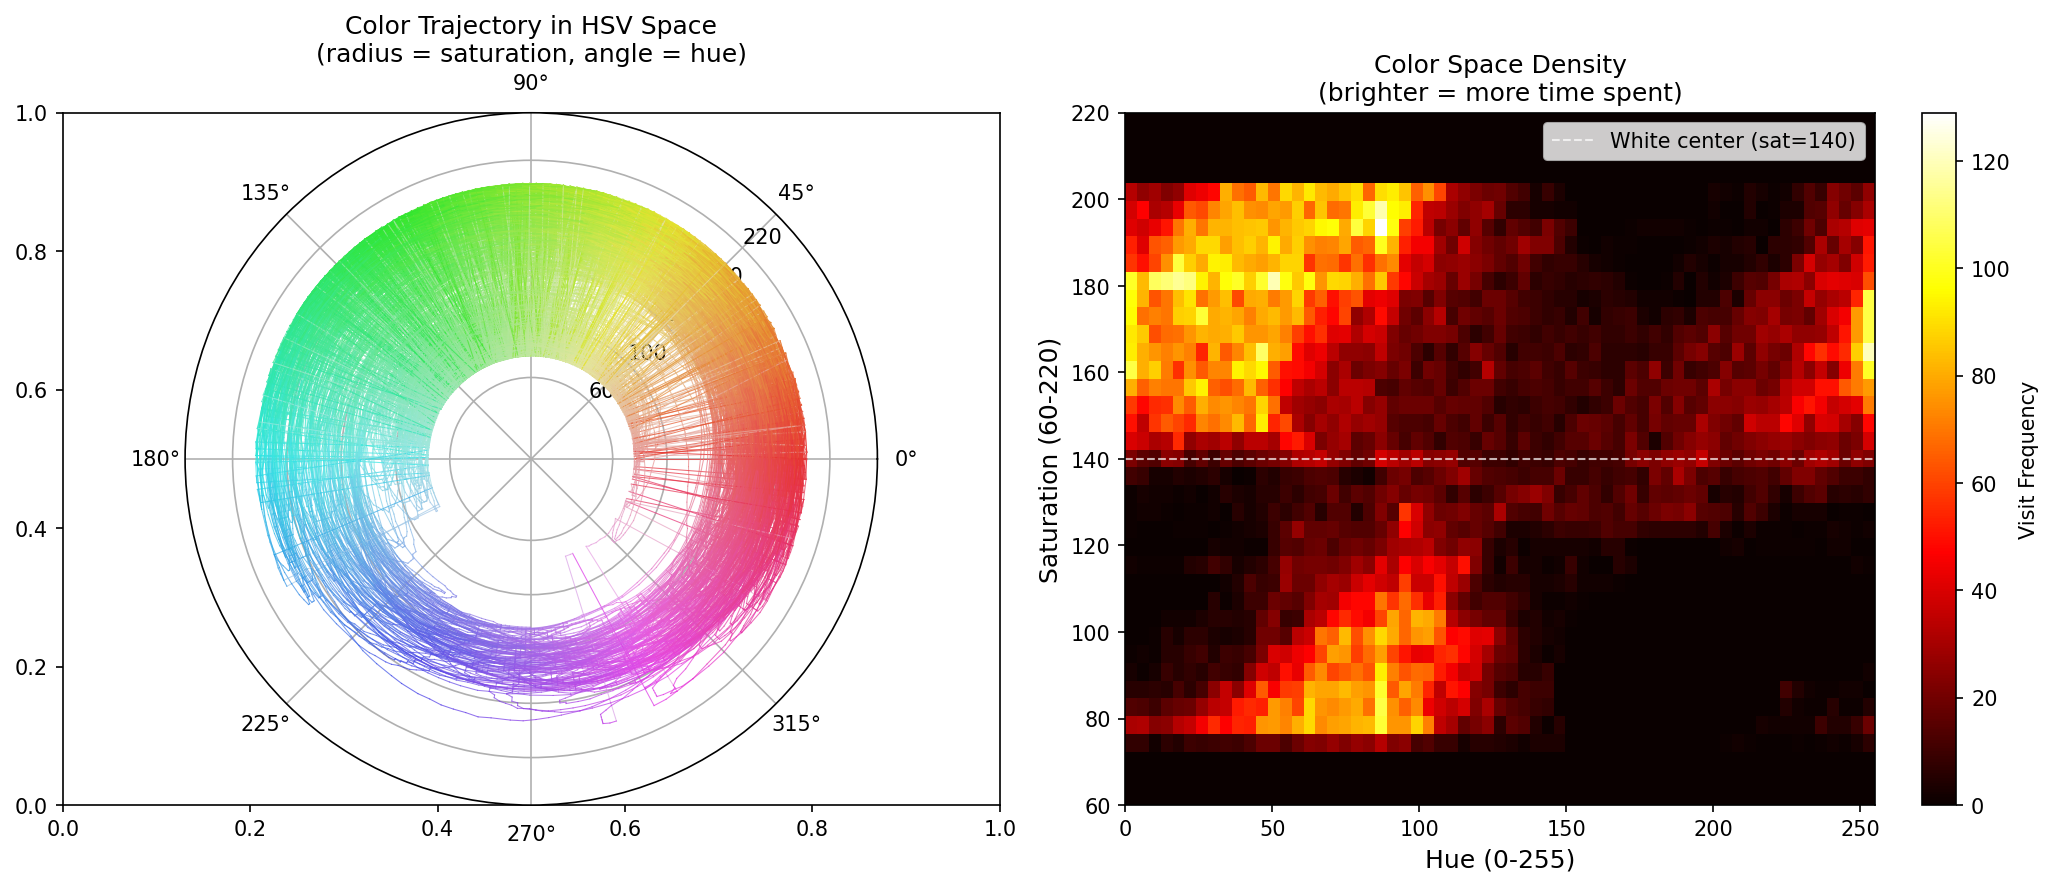
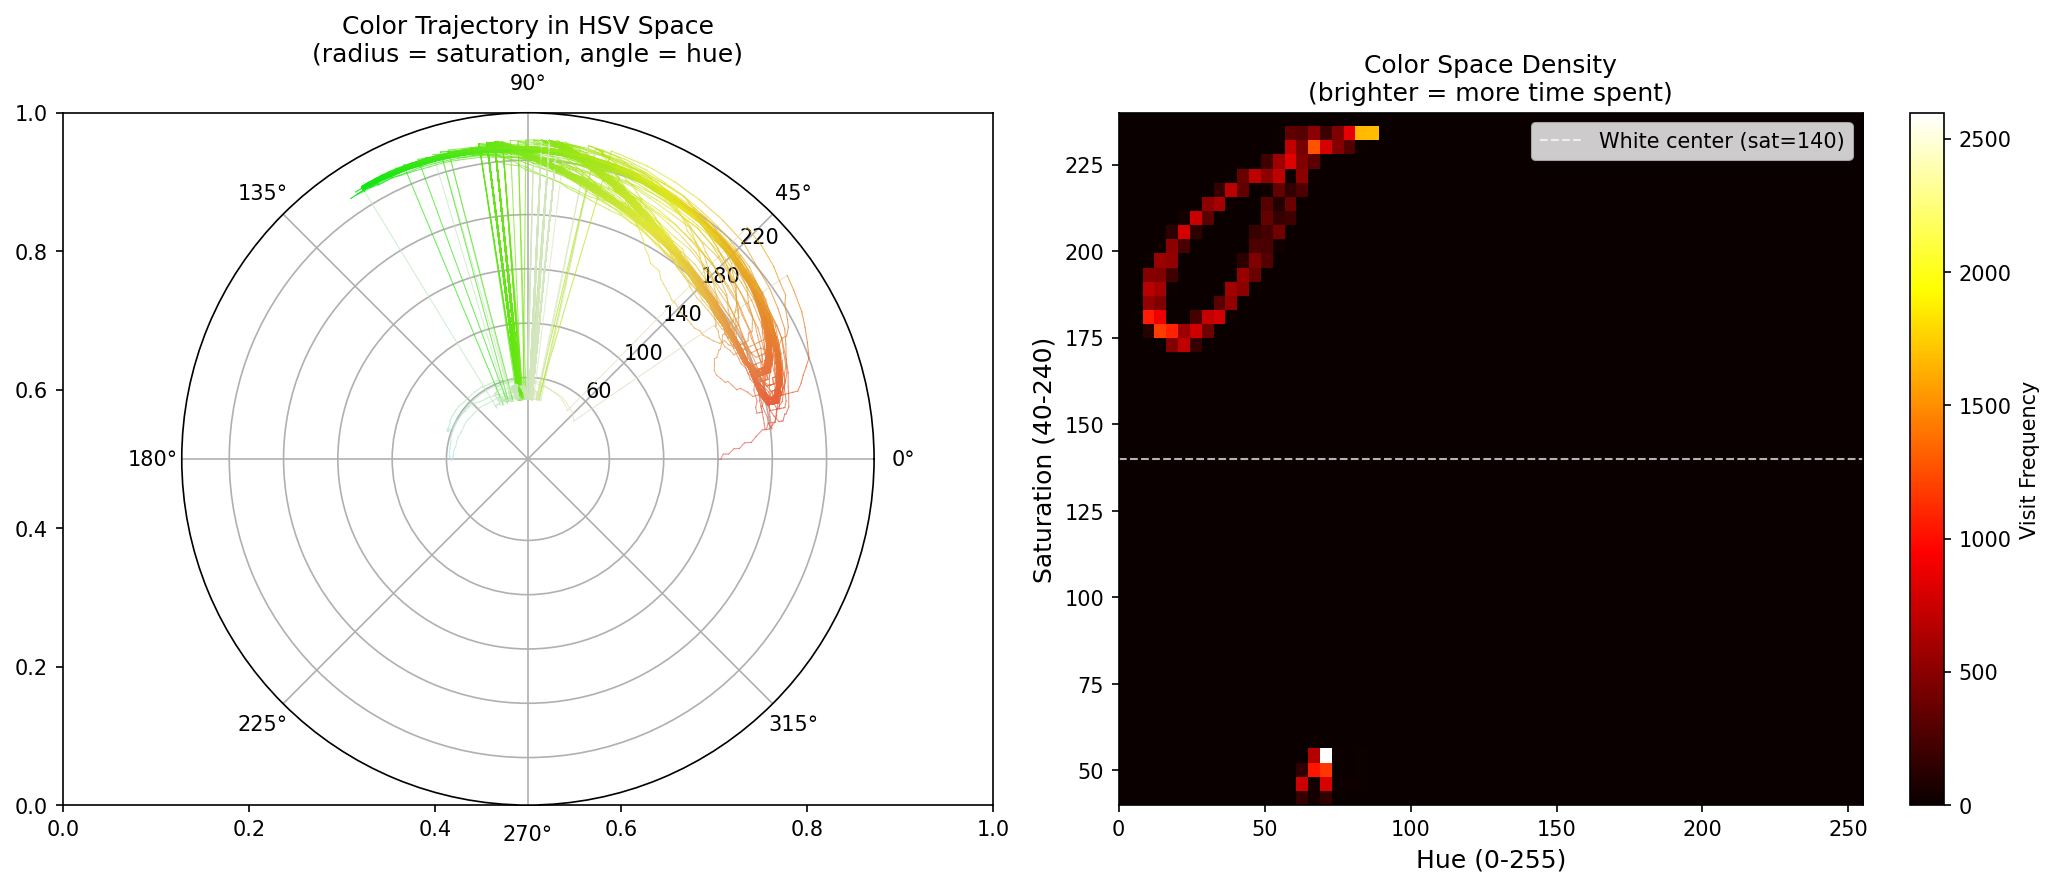
Tune chaos mode for better perceptual experience
Energy parameter tuning:
- Scale range narrowed to 6-11 (was 4-19) to avoid too-slow boring
  oscillations and too-fast white blur
- Drive amplitude narrowed to 40-56 (was 32-63) for consistent dynamics

Saturation mapping:
- Added sqrt-like expansion to spend more time at vivid saturated
  colors and less time near white
- Range expanded to 40-240 (was 60-220)

3H adjustment visual feedback:
- Brightness now shows energy level during adjustment (dim=slow, bright=fast)
- Brief blink on wrap-around (255->0 or 0->255)
- Original brightness restored on release

Updated simulation and documentation to match firmware changes.

diff --git a/hw/hank/emisar-d4k-3ch/hwdef.c b/hw/hank/emisar-d4k-3ch/hwdef.c
@@ -104,6 +104,7 @@ bool gradual_tick_hsv(uint8_t gt);
 bool gradual_tick_auto3(uint8_t gt);
 bool gradual_tick_cct(uint8_t gt);
 bool gradual_tick_chaos(uint8_t gt);
+uint8_t chaos_3h(Event event, uint16_t arg);
 
 
 Channel channels[] = {
@@ -164,7 +165,7 @@ Channel channels[] = {
 // CCT mode uses default linear 3H (warm to cool)
 StatePtr channel_3H_modes[NUM_CHANNEL_MODES] = {
     NULL, NULL, NULL, NULL,
-    NULL, NULL, circular_tint_3h, NULL, NULL, circular_tint_3h,  // HSV and chaos use circular 3H
+    NULL, NULL, circular_tint_3h, NULL, NULL, chaos_3h,  // HSV=circular, CCT=linear, chaos=custom
 };
 
 void set_level_zero() {
@@ -551,8 +552,10 @@ static uint8_t chaos_frame = 0;
 // Physics update for coupled chaotic pendulum
 static void chaos_update(void) {
     // Get energy from user config (0-255)
+    // Map to useful range: avoid too-slow (boring) and too-fast (just white)
     uint8_t energy = cfg.channel_mode_args[channel_mode];
-    int16_t scale = 4 + (energy >> 4);  // speed scale: 4-19
+    // scale: 6-12 (was 4-19) - narrower range for perceptually useful speeds
+    int16_t scale = 6 + ((energy * 6) >> 8);  // 6 + 0..5 = 6..11
 
     // Use triangle wave as sinusoidal approximation
     int8_t wave1 = signed_wave((uint8_t)(chaos_theta1 >> 8));
@@ -563,7 +566,8 @@ static void chaos_update(void) {
     // This creates a driven double pendulum which exhibits true chaos
     chaos_frame++;
     int8_t drive = signed_wave(chaos_frame * 3);  // slow driving frequency
-    int16_t drive_force = (drive * (int16_t)(32 + (energy >> 3))) >> 7;
+    // drive amplitude: 40-56 (was 32-63) - narrower for better behavior
+    int16_t drive_force = (drive * (int16_t)(40 + (energy >> 4))) >> 7;
 
     // Coupled pendulum acceleration with driving
     int16_t acc1 = ((-20 * wave1) >> 4) + ((16 * wave_diff) >> 4) + drive_force;
@@ -593,11 +597,17 @@ void set_level_chaos(uint8_t level) {
     // Map theta1 to hue (full 0-255 range)
     uint8_t hue = (uint8_t)(chaos_theta1 >> 8);
 
-    // Map theta2 to saturation (centered at 140, range 60-220)
-    // This keeps colors "white-ish" but with colored tints
-    int16_t sat = 140 + (int8_t)(chaos_theta2 >> 9);
-    if (sat < 60) sat = 60;
-    if (sat > 220) sat = 220;
+    // Map theta2 to saturation with sqrt-like expansion
+    // This spends less time near white (center) and more at saturated colors
+    int8_t sat_raw = (int8_t)(chaos_theta2 >> 9);  // -128 to +127
+    // Sqrt-like expansion: small values get pushed away from zero
+    // Use (sign * sqrt(abs)) approximation via: sign * (128 - (128-abs)^2/128)
+    uint8_t sat_abs = sat_raw < 0 ? -sat_raw : sat_raw;
+    uint8_t inv = 128 - sat_abs;
+    uint8_t sat_expanded = 128 - ((inv * inv) >> 7);  // sqrt-ish curve
+    int16_t sat = 140 + (sat_raw < 0 ? -sat_expanded : sat_expanded);
+    if (sat < 40) sat = 40;    // allow more saturated colors
+    if (sat > 240) sat = 240;
 
     // Brightness from ramp level
     PWM_DATATYPE val = PWM_GET(pwm1_levels, level);
@@ -613,9 +623,14 @@ bool gradual_tick_chaos(uint8_t gt) {
 
     // Compute target color
     uint8_t hue = (uint8_t)(chaos_theta1 >> 8);
-    int16_t sat = 140 + (int8_t)(chaos_theta2 >> 9);
-    if (sat < 60) sat = 60;
-    if (sat > 220) sat = 220;
+    // Sqrt-like saturation expansion (same as set_level_chaos)
+    int8_t sat_raw = (int8_t)(chaos_theta2 >> 9);
+    uint8_t sat_abs = sat_raw < 0 ? -sat_raw : sat_raw;
+    uint8_t inv = 128 - sat_abs;
+    uint8_t sat_expanded = 128 - ((inv * inv) >> 7);
+    int16_t sat = 140 + (sat_raw < 0 ? -sat_expanded : sat_expanded);
+    if (sat < 40) sat = 40;
+    if (sat > 240) sat = 240;
 
     PWM_DATATYPE val = PWM_GET(pwm1_levels, gt);
     RGB_t color = hsv2rgb(hue, (uint8_t)sat, val);
@@ -625,5 +640,52 @@ bool gradual_tick_chaos(uint8_t gt) {
 
     // Always return false to keep animation running continuously
     return false;
+}
+
+///// 3H handler for chaos mode energy adjustment /////
+// Shows brightness proportional to energy during hold, blinks on wrap
+void save_config();  // forward declaration
+uint8_t chaos_3h(Event event, uint16_t arg) {
+    static int8_t direction = 1;
+    static uint8_t active = 0;
+    static uint8_t saved_level = 0;
+    uint8_t energy = cfg.channel_mode_args[channel_mode];
+
+    // click, click, hold: adjust energy with visual feedback
+    if (event == EV_click3_hold) {
+        // reset at beginning of movement
+        if (! arg) {
+            active = 1;
+            saved_level = actual_level;  // remember brightness to restore later
+        }
+        if (! active) return EVENT_NOT_HANDLED;
+
+        uint8_t old_energy = energy;
+        energy += direction;
+        cfg.channel_mode_args[channel_mode] = energy;
+
+        // detect wrap-around and blink
+        if ((old_energy == 255 && energy == 0) || (old_energy == 0 && energy == 255)) {
+            set_level(0);
+            delay_4ms(8);  // brief off
+        }
+
+        // show brightness proportional to energy (min 1 to keep light on)
+        uint8_t display_level = 1 + (energy * (uint16_t)(MAX_LEVEL - 1)) / 255;
+        set_level(display_level);
+
+        return EVENT_HANDLED;
+    }
+
+    // click, click, hold, release: restore brightness and save
+    else if (event == EV_click3_hold_release) {
+        active = 0;
+        direction = -direction;  // reverse for next time
+        save_config();
+        set_level(saved_level);  // restore original brightness
+        return EVENT_HANDLED;
+    }
+
+    return EVENT_NOT_HANDLED;
 }
 

diff --git a/tools/chaos_simulation.py b/tools/chaos_simulation.py
@@ -48,8 +48,8 @@ def chaos_update(state, energy=128):
     theta2 = state['theta2']
     omega2 = state['omega2']
 
-    # Speed scale: 4-19 based on energy
-    scale = 4 + (energy >> 4)
+    # Speed scale: 6-11 based on energy (narrower range for perceptually useful speeds)
+    scale = 6 + ((energy * 6) >> 8)  # 6 + 0..5 = 6..11
 
     # Use triangle wave as sinusoidal approximation
     wave1 = signed_wave((theta1 >> 8) & 0xFF)
@@ -60,7 +60,8 @@ def chaos_update(state, energy=128):
     # This creates a driven double pendulum which exhibits true chaos
     _chaos_frame = (_chaos_frame + 1) & 0xFF
     drive = signed_wave((_chaos_frame * 3) & 0xFF)
-    drive_force = (drive * (32 + (energy >> 3))) >> 7
+    # Drive amplitude: 40-56 (narrower range for better behavior)
+    drive_force = (drive * (40 + (energy >> 4))) >> 7
 
     # Coupled pendulum acceleration with driving
     acc1 = ((-20 * wave1) >> 4) + ((16 * wave_diff) >> 4) + drive_force
@@ -94,10 +95,14 @@ def state_to_color(state):
     # Hue from theta1 (full 0-255 range)
     hue = (state['theta1'] >> 8) & 0xFF
 
-    # Saturation from theta2 (centered at 140, range 60-220)
-    sat_offset = ((state['theta2'] >> 9) + 128) % 256 - 128  # signed byte
-    sat = 140 + sat_offset
-    sat = max(60, min(220, sat))
+    # Saturation from theta2 with sqrt-like expansion
+    # This spends less time near white (center) and more at saturated colors
+    sat_raw = ((state['theta2'] >> 9) + 128) % 256 - 128  # signed byte, -128 to +127
+    sat_abs = abs(sat_raw)
+    inv = 128 - sat_abs
+    sat_expanded = 128 - ((inv * inv) >> 7)  # sqrt-ish curve
+    sat = 140 + (sat_expanded if sat_raw >= 0 else -sat_expanded)
+    sat = max(40, min(240, sat))
 
     return hue, sat
 
@@ -208,11 +213,11 @@ def plot_color_trajectory(history, filename):
 
     # Create 2D histogram for density
     h_bins = np.linspace(0, 255, 64)
-    s_bins = np.linspace(60, 220, 40)
+    s_bins = np.linspace(40, 240, 50)
     H, xedges, yedges = np.histogram2d(history['hue'], history['sat'], bins=[h_bins, s_bins])
 
     # Plot as heatmap
-    extent = [0, 255, 60, 220]
+    extent = [0, 255, 40, 240]
     im = ax2.imshow(H.T, origin='lower', extent=extent, aspect='auto', cmap='hot')
     plt.colorbar(im, ax=ax2, label='Visit Frequency')
 
@@ -220,7 +225,7 @@ def plot_color_trajectory(history, filename):
     ax2.axhline(y=140, color='white', linestyle='--', linewidth=1, alpha=0.7, label='White center (sat=140)')
 
     ax2.set_xlabel('Hue (0-255)', fontsize=12)
-    ax2.set_ylabel('Saturation (60-220)', fontsize=12)
+    ax2.set_ylabel('Saturation (40-240)', fontsize=12)
     ax2.set_title('Color Space Density\n(brighter = more time spent)', fontsize=12)
     ax2.legend(loc='upper right')
 
@@ -261,9 +266,9 @@ def plot_time_series(history, filename, n_points=2000):
     ax3 = axes[2]
     ax3.plot(t, history['sat'][:n_points], 'purple', linewidth=0.5)
     ax3.axhline(y=140, color='gray', linestyle='--', linewidth=1, alpha=0.7, label='White center')
-    ax3.fill_between(t, 60, 220, alpha=0.1, color='gray')
+    ax3.fill_between(t, 40, 240, alpha=0.1, color='gray')
     ax3.set_ylabel('Saturation', fontsize=12)
-    ax3.set_ylim(40, 240)
+    ax3.set_ylim(20, 260)
     ax3.grid(True, alpha=0.3)
     ax3.legend(loc='upper right')
 
@@ -378,7 +383,8 @@ def plot_coupling_diagram(filename):
     # Equations (positioned lower with more space)
     eq_text = """Driven Coupled Pendulum Equations:
 
-drive_force = wave(frame×3) · (32 + energy/8) / 128
+drive_force = wave(frame×3) · (40 + energy/16) / 128
+scale = 6 + energy×6/256    (range: 6-11)
 
 acc₁ = -20·wave(θ₁)/16 + 16·wave(θ₂-θ₁)/16 + drive_force
 acc₂ = -16·wave(θ₂)/16 - 16·wave(θ₂-θ₁)/16

diff --git a/docs/chaotic-pendulum-science.md b/docs/chaotic-pendulum-science.md
@@ -41,7 +41,7 @@ The driven coupled pendulum equations, adapted for integer arithmetic:
 
 ```
 drive = wave(frame * 3)
-drive_force = drive · (32 + energy/8) / 128
+drive_force = drive · (40 + energy/16) / 128
 
 acc₁ = -20·wave(θ₁)/16 + 16·wave(θ₂-θ₁)/16 + drive_force
 acc₂ = -16·wave(θ₂)/16 - 16·wave(θ₂-θ₁)/16
@@ -55,8 +55,8 @@ acc₂ = -16·wave(θ₂)/16 - 16·wave(θ₂-θ₁)/16
 
 Where:
 - `wave()` is a triangle wave approximating sine (using existing firmware function)
-- `scale = 4 + energy/16` provides user-adjustable speed (4-19)
-- `drive_force` is a periodic driving term that sustains oscillations
+- `scale = 6 + energy×6/256` provides user-adjustable speed (6-11, tuned for perceptual range)
+- `drive_force` is a periodic driving term that sustains oscillations (amplitude 40-56)
 - The `-ω/512` term provides very light damping to prevent runaway
 - The coupling term `wave(θ₂-θ₁)` creates energy transfer between oscillators
 
@@ -103,15 +103,29 @@ The chaos maps to colors via HSV:
 ![Color Trajectory](images/chaos-color-trajectory.png)
 
 **Left (polar plot)**: Angle = hue, radius = saturation. The trajectory
-shows how colors roam through the space, with higher density near the
-center (white-ish colors).
+shows how colors roam through the space.
 
 **Right (heatmap)**: Density of visits to different hue/saturation
 combinations. Brighter areas indicate more time spent at those colors.
 
-The white dashed line at saturation=140 marks the center point. The
-algorithm is tuned to spend most time near this line while making
-occasional excursions to more saturated colors.
+The white dashed line at saturation=140 marks the nominal center point.
+
+### Saturation Mapping: Square Root Expansion
+
+To spend more time at vivid, saturated colors rather than near white,
+the raw θ₂ oscillator value undergoes a **square root-like expansion**:
+
+```
+sat_raw = θ₂ >> 9                    // -128 to +127
+sat_abs = |sat_raw|
+inv = 128 - sat_abs
+sat_expanded = 128 - (inv²) / 128    // sqrt-ish curve
+sat = 140 + sign(sat_raw) × sat_expanded
+```
+
+This transformation pushes small values (near white) outward toward
+the saturated extremes. The result: the animation dwells longer on
+vivid colors and passes quickly through the white region.
 
 ## Time Evolution
 
@@ -147,6 +161,26 @@ fills more rapidly and transitions happen quickly.
 The energy parameter scales the position update rate without changing
 the fundamental dynamics - like adjusting the playback speed of a
 chaotic system.
+
+### Perceptual Tuning
+
+The energy-to-speed mapping was carefully tuned for the perceptually
+useful range:
+
+- **Scale range 6-11** (not 4-19): Very low speeds looked static and
+  boring, while very high speeds blurred into white
+- **Drive amplitude 40-56** (not 32-63): Narrower range maintains
+  interesting dynamics across all energy settings
+
+### Visual Feedback During Adjustment
+
+When adjusting energy via 3H:
+- **Brightness shows energy level**: Dim = slow, bright = fast
+- **Blink on wrap-around**: Brief off when value wraps 255→0 or 0→255
+- **Restore on release**: Original brightness returns when released
+
+This lets users see exactly where they are in the energy range without
+needing to guess based on animation speed alone.
 
 ## RGB Channel Output
 
@@ -184,12 +218,17 @@ at 8MHz.
 
 ### Continuous Animation
 
-The animation runs via `gradual_tick_chaos()`, which is called
-continuously during thermal regulation. This ensures:
+The animation runs via a hook in the main `EV_tick` handler that calls
+`set_level(actual_level)` on every frame when chaos mode is active.
+This ensures:
 
 1. Animation continues even when brightness is static
 2. Smooth transitions during thermal stepdown
 3. No visible stuttering or frame drops
+
+The implementation required adding `USE_CHAOS_MODE` to enable this
+tick-driven animation, as standard channel modes only update when
+brightness changes.
 
 ## Comparison to True Double Pendulum
 
